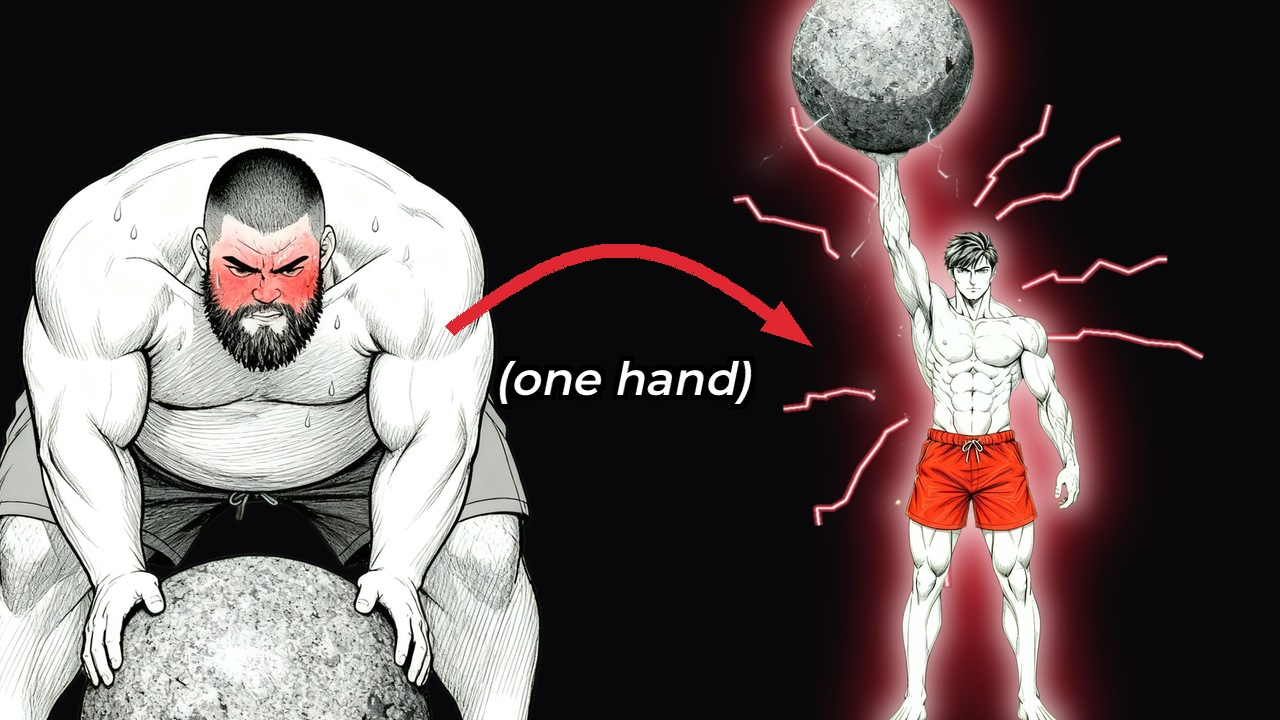
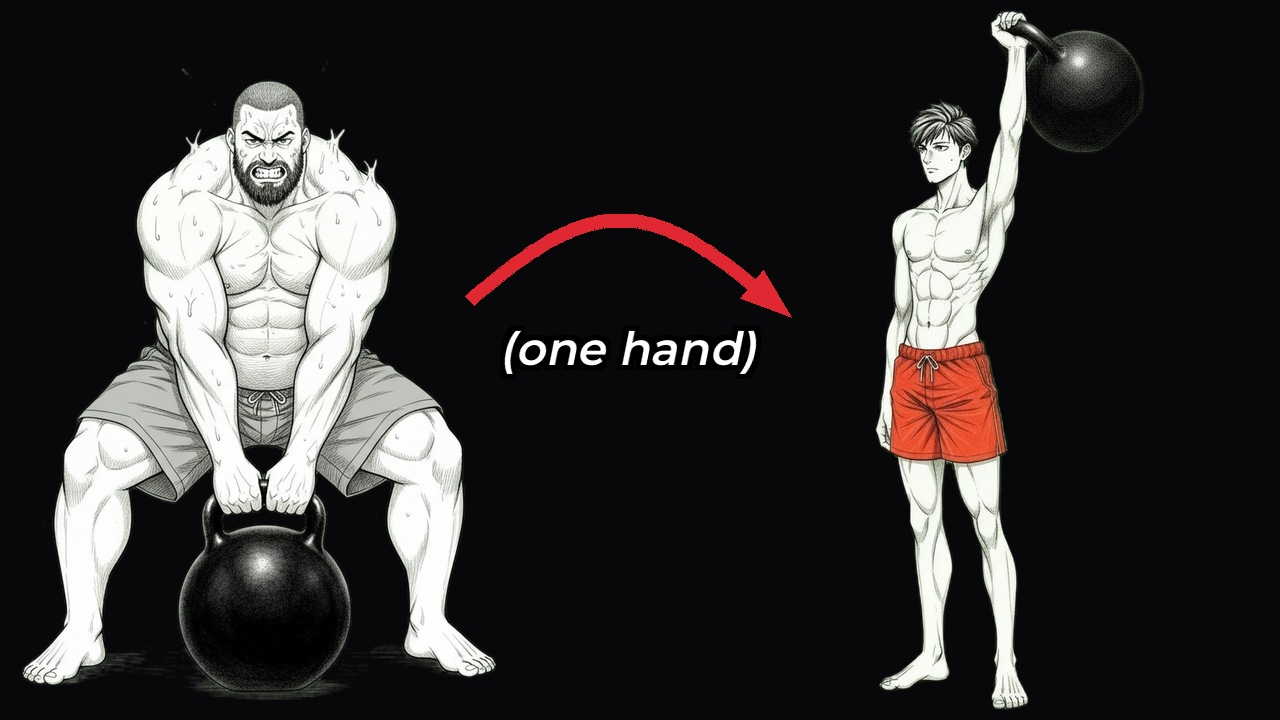
Vidéo 3 : Kai fin + kettlebell géant à la place de la pierre, nouvelle miniature
Claude-Session: https://claude.ai/code/session_01HfTJRBKojVvCYkTdJc6zQ1

diff --git a/motion/youtube/v4/make_plan.py b/motion/youtube/v4/make_plan.py
@@ -6,15 +6,15 @@ def cam(z0=1.0, fx=0.5, fy=0.5, z1=None, fx1=None, fy1=None): return [z0, fx, fy
 def rep(a, b, per, c=None, **k): return dict(img=a, alt=b, period=per, cam=c or F, **k)
 def say(i, s, **k): return dict(say=s, spoken=LINES[i]['text'], **k)
 S = [
- ([0], dict(img='big_strain', enter='up', cam=cam(1.0, 0.5, 0.53, 1.15), seq=[{'at': 0.62, 'img': 'lean_lift'}], **say(0, 'a big guy *couldn\'t*', sayFrom=9, sayY=0.9))),
- ([1], dict(img='lean_lift', cam=cam(1.15, 0.48, 0.45, 1.5, 0.48, 0.35), text='impossible?', textAt=0.3)),
+ ([0], dict(img='big_kb', enter='up', cam=cam(1.0, 0.5, 0.53, 1.15), seq=[{'at': 0.62, 'img': 'kb_up'}], **say(0, 'a big guy *couldn\'t*', sayFrom=9, sayY=0.9))),
+ ([1], dict(img='kb_up', cam=cam(1.15, 0.48, 0.45, 1.5, 0.48, 0.35), text='impossible?', textAt=0.3)),
  ([2], dict(card='it happens all the time')),
- ([3], dict(img='lean', enter='fade', cam=F, slide={'to': 0.3, 'at': 0.05}, text="you'll train differently")),
+ ([3], dict(img='kb_hold', enter='fade', cam=F, slide={'to': 0.3, 'at': 0.05}, text="you'll train differently")),
  ([4], dict(card="here's the truth")),
- ([5], dict(img='big', enter='left', cam=F, seq=[{'at': 0.5, 'img': 'lean'}], text='size ≠ strength', textAt=0.55)),
+ ([5], dict(img='big', enter='left', cam=F, seq=[{'at': 0.5, 'img': 'kb_hold'}], text='size ≠ strength', textAt=0.55)),
  ([6], dict(img='big', cam=cam(1.0, 0.5, 0.5, 1.3, 0.5, 0.42), **say(6, '*size*', sayY=0.18))),
  ([7], dict(img='lean_nerves', cam=cam(1.0, 0.5, 0.5, 1.3, 0.5, 0.42), **say(7, '*strength*', sayY=0.18))),
- ([8], dict(card='4 reasons')),
+ ([8], dict(img='kb_up3', enter='fade', cam=cam(1.0, 0.5, 0.5, 1.12), slide={'to': 0.3, 'at': 0.1}, text='4 reasons')),
  ([9, 10], dict(img='lean_nerves', enter='up', cam=F, label='#1. Your nervous system')),
  ([11], dict(img='lean_nerves', cam=cam(1.2, 0.5, 0.35, 1.7, 0.5, 0.25), text='brain → nerves → muscle', textAt=0.35)),
  ([12], dict(img='lean_nerves', cam=cam(1.7, 0.4, 0.4, 1.9, 0.35, 0.45), text='the signal', textAt=0.5)),
@@ -37,8 +37,8 @@ S = [
  ([31], dict(img='big', cam=cam(1.0, 0.5, 0.5, 1.15, 0.5, 0.47), text='he carries himself first', textAt=0.3)),
  ([32], dict(img='big', cam=cam(1.15, 0.5, 0.47, 1.8, 0.5, 0.5), text='not muscle', textAt=0.5)),
  ([33], dict(img='big', cam=cam(1.8, 0.5, 0.5, 2.0, 0.5, 0.52), **say(33, '*fat*', sayY=0.15))),
- ([34], dict(img='big_strain', cam=cam(1.0, 0.5, 0.53), icons=[{'kind': 'x', 'at': 0.4}])),
- ([35], dict(img='lean', enter='fade', cam=F, slide={'to': 0.3, 'at': 0.05}, text='everything works for him')),
+ ([34], dict(img='big_kb2', cam=cam(1.0, 0.5, 0.53), icons=[{'kind': 'x', 'at': 0.4}])),
+ ([35], dict(img='kb_hold', enter='fade', cam=F, slide={'to': 0.3, 'at': 0.05}, text='everything works for him')),
  ([36], rep('lean_pu_down', 'lean_pu_up', 0.8, cam(1.0, 0.5, 0.52))),
  ([37], dict(img='lean', cam=cam(1.0, 0.5, 0.5, 1.2, 0.5, 0.42), **say(37, 'pound for *pound*'))),
  ([38], dict(img='big_pullup', cam=cam(1.0, 0.5, 0.51), seq=[{'at': 0.45, 'img': 'lean_pu_up'}], text='x2 reps', textAt=0.6, textX=0.85)),
@@ -47,8 +47,8 @@ S = [
  ([42], dict(img='lean', cam=cam(1.6, 0.38, 0.45, 2.0, 0.36, 0.5), text='tendons = cables', textAt=0.5)),
  ([43], dict(img='lean_climb', cam=cam(1.3, 0.6, 0.35, 1.5, 0.62, 0.3), text='like steel', textAt=0.6, textX=0.2)),
  ([44], dict(img='lean_pistol', enter='right', cam=cam(1.0, 0.56, 0.52), seq=[{'at': 0.5, 'img': 'lean_climb'}])),
- ([45], dict(img='lean', enter='fade', cam=F, text="their muscles aren't huge", textAt=0.2)),
- ([46], dict(img='lean_lift', cam=cam(1.0, 0.48, 0.5, 1.15, 0.48, 0.45), **say(46, 'transfer *force*', sayY=0.9))),
+ ([45], dict(img='kb_up3', enter='fade', cam=F, text="their muscles aren't huge", textAt=0.2)),
+ ([46], dict(img='kb_up2', cam=cam(1.0, 0.48, 0.5, 1.15, 0.48, 0.45), **say(46, 'transfer *force*', sayY=0.9))),
  ([47], dict(card='how do you train for this?')),
  ([48], dict(card='4 rules')),
  ([49, 50], dict(medal='p_barbell', name='Rule #1 · Heavy, low reps', medalZoom=1.0)),
@@ -78,7 +78,7 @@ S = [
  ([77], dict(reps='3 – 6 reps', sets=4)),
  ([78], dict(img='p_timer', enter='fade', cam=cam(1.0, 0.5, 0.49), text='2 – 3 min', textAt=0.3, textX=0.82)),
  ([79], dict(img='lean_dl_down', cam=cam(1.0, 0.53, 0.5), seq=[{'at': 0.5, 'img': 'lean_dl_up'}], text='+1 rep every week', textAt=0.4, textX=0.2)),
- ([80], dict(img='lean_lift', enter='up', cam=cam(1.0, 0.48, 0.5, 1.12, 0.48, 0.45), **say(80, 'the big guys *can\'t*', sayY=0.9))),
+ ([80], dict(img='kb_up', enter='up', cam=cam(1.0, 0.48, 0.5, 1.12, 0.48, 0.45), **say(80, 'the big guys *can\'t*', sayY=0.9))),
  ([81], dict(card='and the best part?')),
  ([82], dict(img='lean', enter='fade', cam=F, seq=[{'at': 0.4, 'img': 'flex'}], slide={'to': 0.3, 'at': 0.45}, text='your muscles grow too')),
  ([83], dict(img='base', hl='hl_all', hlAt=0.4, cam=cam(1.0, 0.5, 0.5, 2.2, 0.5, 0.27), **say(83, 'your *chest*', sayY=0.12))),
